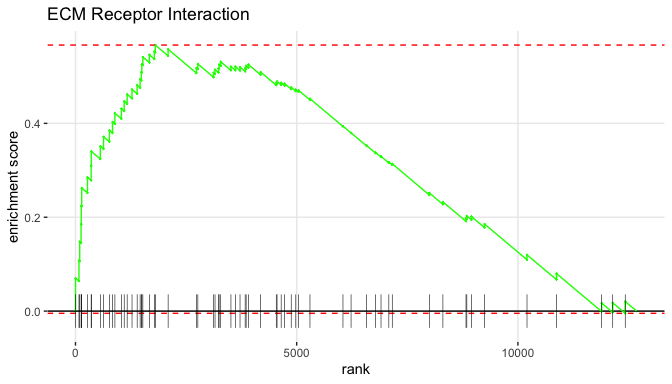
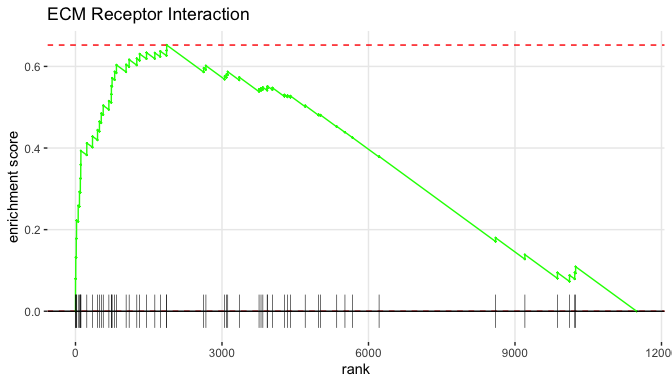
update Liver vignette

diff --git a/vignettes/Liver.md b/vignettes/Liver.md
@@ -25,23 +25,23 @@ extdata <- system.file("extdata", package="hciR")
 samples <- read_tsv(paste(extdata, "liver_samples.tsv", sep="/"))
 samples
 #  # A tibble: 16 x 4
-#     id       name      trt      diet
+#     id       name      trt      diet 
 #     <chr>    <chr>     <chr>    <chr>
-#   1 15089X1  194-Liver Control  NCD
-#   2 15089X2  198-Liver Control  NCD
-#   3 15089X3  209-Liver Control  NCD
-#   4 15089X4  220-Liver Control  NCD
-#   5 15089X5  179-Liver Degs1_KO NCD
-#   6 15089X6  185-Liver Degs1_KO NCD
-#   7 15089X7  186-Liver Degs1_KO NCD
-#   8 15089X8  187-Liver Degs1_KO NCD
-#   9 15089X9  61-Liver  Control  HFD
-#  10 15089X10 70-Liver  Control  HFD
-#  11 15089X11 71-Liver  Control  HFD
-#  12 15089X12 76-Liver  Control  HFD
-#  13 15089X13 82-Liver  Degs1_KO HFD
-#  14 15089X14 89-Liver  Degs1_KO HFD
-#  15 15089X15 90-Liver  Degs1_KO HFD
+#   1 15089X1  194-Liver Control  NCD  
+#   2 15089X2  198-Liver Control  NCD  
+#   3 15089X3  209-Liver Control  NCD  
+#   4 15089X4  220-Liver Control  NCD  
+#   5 15089X5  179-Liver Degs1_KO NCD  
+#   6 15089X6  185-Liver Degs1_KO NCD  
+#   7 15089X7  186-Liver Degs1_KO NCD  
+#   8 15089X8  187-Liver Degs1_KO NCD  
+#   9 15089X9  61-Liver  Control  HFD  
+#  10 15089X10 70-Liver  Control  HFD  
+#  11 15089X11 71-Liver  Control  HFD  
+#  12 15089X12 76-Liver  Control  HFD  
+#  13 15089X13 82-Liver  Degs1_KO HFD  
+#  14 15089X14 89-Liver  Degs1_KO HFD  
+#  15 15089X15 90-Liver  Degs1_KO HFD  
 #  16 15089X16 92-Liver  Degs1_KO HFD
 ```
 
@@ -117,7 +117,7 @@ Following the DESeq2 vignette on
 there are a few ways to model the data.
 
 1.  Combine trt and diet into a single column and select the pairwise
-    comparisons of interest, for example Degs1-KO\_NCD vs Control\_NCD.
+    comparisons of interest, for example Degs1 KO\_NCD vs Control\_NCD.
 2.  Test interactions using \~ trt \* diet in the design formula
 3.  Analyze a subset of samples like those from NCD. See the DEseq2
     [FAQ](http://bioconductor.org/packages/devel/bioc/vignettes/DESeq2/inst/doc/DESeq2.html#if-i-have-multiple-groups-should-i-run-all-together-or-split-into-pairs-of-groups)
@@ -155,7 +155,7 @@ top 500 variable genes.
 
 ``` r
 # plot_pca(rld1, "trt_diet", tooltip=c("id", "name", "diet") , width=700)
-plot_pca(rld1, "trt_diet", ggplot=TRUE, label="name")
+plot_pca(rld1, "trt_diet", ggplot=TRUE, label="id")
 ```
 
 ![](Liver_files/figure-gfm/pcaplot-1.png)<!-- -->
@@ -191,39 +191,59 @@ Use the `subset` option to skip the 3rd and 4th contrasts and compare
 the remaining rows using a 5% false discovery rate (FDR).
 
 ``` r
-res <- results_all(dds1, mouse92, subset=c(1,2,5,6) )
+res <- results_all(dds1, mouse92, subset=c(2,5,6,1))
 #  Using adjusted p-value < 0.05
 #  Adding shrunken fold changes to log2FoldChange
-#  1. KO_HFD vs. KO_NCD:           1150 up and 1115 down regulated
-#  2. KO_HFD vs. Control_HFD:      267 up and 415 down regulated
-#  3. KO_NCD vs. Control_NCD:      35 up and 17 down regulated
-#  4. Control_HFD vs. Control_NCD: 494 up and 278 down regulated
+#  1. KO_HFD vs. Control_HFD:      267 up and 415 down regulated
+#  2. KO_NCD vs. Control_NCD:      35 up and 17 down regulated
+#  3. Control_HFD vs. Control_NCD: 494 up and 278 down regulated
+#  4. KO_HFD vs. KO_NCD:           1150 up and 1115 down regulated
 ```
 
-Plot fold changes and p-values from KO\_HFD vs. KO\_NCD in the first
+Plot fold changes and p-values from high fat KO vs. Control in the first
 contrast in a volcano plot.
 
 ``` r
-plot_volcano(res[[1]], pvalue=10)
+plot_volcano(res[[1]], pvalue=3)
 ```
 
 ![](Liver_files/figure-gfm/volcano-1.png)<!-- -->
 
 <br>
 
-Cluster the rlog values from all 2859 significant genes and scale by
+Plot the mean normalized count and fold change in an MA-plot.
+
+``` r
+plot_ma(res[[1]])
+```
+
+![](Liver_files/figure-gfm/plot_ma1-1.png)<!-- -->
+
+<br>
+
+Cluster the rlog values from all 682 significant genes and scale by
 rows, so values represent the number of standard deviations from the
 mean rlog value.
 
 ``` r
-x <- top_counts(res[[1]], rld1, top=3000)
+x <- top_counts(res[[1]], rld1, top=1000)
 nrow(x)
-#  [1] 2265
+#  [1] 682
 plot_genes(x, c("trt", "diet"), scale ="row", annotation_names_col=FALSE,
  show_rownames=FALSE)
 ```
 
 ![](Liver_files/figure-gfm/gene_heatmap2-1.png)<!-- -->
+
+Optionally, drop the normal chow samples.
+
+``` r
+x <- filter_top_counts(x, diet == "HFD")
+plot_genes(x, "trt", scale ="row", annotation_names_col=FALSE,
+ show_rownames=FALSE)
+```
+
+![](Liver_files/figure-gfm/gene_heatmap2b-1.png)<!-- -->
 
 Find genes in the PPAR Signaling Pathway using the MSigDB pathways in
 [hciRdata](https://github.com/HuntsmanCancerInstitute/hciRdata). Note
@@ -235,27 +255,28 @@ dplyr::select(p1, 1:7,12)
 #  # A tibble: 70 x 8
 #     id        gene_name biotype   chromosome description                         human_homolog baseMean    padj
 #     <chr>     <chr>     <chr>     <chr>      <chr>                               <chr>            <dbl>   <dbl>
-#   1 ENSMUSG0… Pparg     protein_… 6          peroxisome proliferator activated … PPARG           219.   0.121
-#   2 ENSMUSG0… Nr1h3     protein_… 2          Mus musculus nuclear receptor subf… NR1H3          1721.   0.864
-#   3 ENSMUSG0… Ppard     protein_… 17         Peroxisome proliferator-activated … PPARD            52.9  0.859
-#   4 ENSMUSG0… Angptl4   protein_… 17         Angiopoietin-related protein 4      ANGPTL4        1921.   0.0366
-#   5 ENSMUSG0… Cd36      protein_… 5          Platelet glycoprotein 4             CD36           1889.   0.00248
-#   6 ENSMUSG0… Apoa2     protein_… 1          Apolipoprotein A-II Proapolipoprot… APOA2         88339.   0.531
-#   7 ENSMUSG0… Cpt1c     protein_… 7          Mus musculus carnitine palmitoyltr… CPT1C             5.15 0.698
-#   8 ENSMUSG0… Ubc       protein_… 5          ubiquitin C                         UBC             871.   0.0382
-#   9 ENSMUSG0… Acaa1b    protein_… 9          acetyl-Coenzyme A acyltransferase … ACAA1         11724.   0.344
-#  10 ENSMUSG0… Lpl       protein_… 8          lipoprotein lipase                  LPL             640.   0.266
+#   1 ENSMUSG0… Pparg     protein_… 6          peroxisome proliferator activated … PPARG           219.    0.565 
+#   2 ENSMUSG0… Nr1h3     protein_… 2          Mus musculus nuclear receptor subf… NR1H3          1721.    0.113 
+#   3 ENSMUSG0… Ppard     protein_… 17         Peroxisome proliferator-activated … PPARD            52.9   0.207 
+#   4 ENSMUSG0… Angptl4   protein_… 17         Angiopoietin-related protein 4      ANGPTL4        1921.    0.959 
+#   5 ENSMUSG0… Cd36      protein_… 5          Platelet glycoprotein 4             CD36           1889.    0.505 
+#   6 ENSMUSG0… Apoa2     protein_… 1          Apolipoprotein A-II Proapolipoprot… APOA2         88339.    0.0723
+#   7 ENSMUSG0… Cpt1c     protein_… 7          Mus musculus carnitine palmitoyltr… CPT1C             5.15 NA     
+#   8 ENSMUSG0… Ubc       protein_… 5          ubiquitin C                         UBC             871.    0.498 
+#   9 ENSMUSG0… Acaa1b    protein_… 9          acetyl-Coenzyme A acyltransferase … ACAA1         11724.    0.914 
+#  10 ENSMUSG0… Lpl       protein_… 8          lipoprotein lipase                  LPL             640.    0.0285
 #  # … with 60 more rows
 ```
 
 Cluster the PPAR genes in a heatmap. There are 70 expressed genes but
-only 24 are significant, so add `filter=FALSE` to plot all genes since
-`top_counts` will filter using an adjusted p-value \< 0.05 by default.
+only 3 are significant - this will plot 37 genes with an FDR \< 50%.
 
 ``` r
-# x <- top_counts( p1, rld1, filter=FALSE)
-x <- top_counts( p1, rld1)
-plot_genes(x, c("trt", "diet"), fontsize_row=8, scale = "row")
+x <- top_counts( filter(p1, padj < 0.5), rld1, filter=FALSE)
+nrow(x)
+#  [1] 37
+x <- filter_top_counts(x, diet == "HFD")
+plot_genes(x, "trt", fontsize_row=8, scale = "row")
 ```
 
 ![](Liver_files/figure-gfm/gene_heatmap3-1.png)<!-- -->
@@ -283,7 +304,7 @@ DESeq2::resultsNames(dds2)
 #  [1] "Intercept"               "trt_Degs1_KO_vs_Control" "diet_NCD_vs_HFD"         "trtDegs1_KO.dietNCD"
 int <- DESeq2::results(dds2, name = "trtDegs1_KO.dietNCD", alpha = 0.05)
 DESeq2::summary(int)
-#
+#  
 #  out of 19771 with nonzero total read count
 #  adjusted p-value < 0.05
 #  LFC > 0 (up)       : 63, 0.32%
@@ -321,7 +342,7 @@ session.
 ``` r
 res_all <- c(res, list(Interactions=int))
 write_deseq(res_all, dds1, rld1, mouse92)
-save(res, int, dds1, rld1, file="dds.rda")
+save(res, int, dds1, rld1, dds2, rld2, file="dds.rda")
 ```
 
 ## Pathway analysis
@@ -355,10 +376,10 @@ and run `fgsea` using a 10% FDR.
 ``` r
 set.seed(77)
 k1 <- fgsea_all(res, msig_pathways$KEGG)
-#  1. KO_HFD vs. KO_NCD:            63 enriched sets (37 positive, 26 negative)
-#  2. KO_HFD vs. Control_HFD:       113 enriched sets (69 positive, 44 negative)
-#  3. KO_NCD vs. Control_NCD:       25 enriched sets (0 positive, 25 negative)
-#  4. Control_HFD vs. Control_NCD:  32 enriched sets (5 positive, 27 negative)
+#  1. KO_HFD vs. Control_HFD:       112 enriched sets (68 positive, 44 negative)
+#  2. KO_NCD vs. Control_NCD:       25 enriched sets (0 positive, 25 negative)
+#  3. Control_HFD vs. Control_NCD:  29 enriched sets (5 positive, 24 negative)
+#  4. KO_HFD vs. KO_NCD:            64 enriched sets (38 positive, 26 negative)
 ```
 
 Print the top pathways from KO\_HFD vs. KO\_NCD and check the GSEA [user
@@ -368,16 +389,16 @@ for details about the statistics.
 ``` r
 group_by(k1[[1]][, -8], enriched) %>% top_n(4, abs(NES)) %>% ungroup()
 #  # A tibble: 8 x 8
-#    pathway                                          pval    padj     ES   NES nMoreExtreme  size enriched
-#    <chr>                                           <dbl>   <dbl>  <dbl> <dbl>        <dbl> <int> <chr>
-#  1 Ribosome                                     0.000387 0.00383 -0.834 -3.74            0    83 negative
-#  2 Oxidative Phosphorylation                    0.000432 0.00383 -0.515 -2.39            0   103 negative
-#  3 Steroid Biosynthesis                         0.000258 0.00320 -0.798 -2.35            0    15 negative
-#  4 Parkinsons Disease                           0.000431 0.00383 -0.484 -2.24            0    99 negative
-#  5 Chemokine Signaling Pathway                  0.000124 0.00233  0.532  2.23            0   142 positive
-#  6 Graft Versus Host Disease                    0.000158 0.00233  0.744  2.16            0    20 positive
-#  7 Allograft Rejection                          0.000162 0.00233  0.775  2.16            0    17 positive
-#  8 Intestinal Immune Network for IGA Production 0.000152 0.00233  0.670  2.14            0    30 positive
+#    pathway                                  pval    padj     ES   NES nMoreExtreme  size enriched
+#    <chr>                                   <dbl>   <dbl>  <dbl> <dbl>        <dbl> <int> <chr>   
+#  1 Oxidative Phosphorylation            0.000260 0.00118 -0.777 -3.65            0   102 negative
+#  2 Ribosome                             0.000254 0.00118 -0.802 -3.62            0    83 negative
+#  3 Parkinsons Disease                   0.000259 0.00118 -0.734 -3.43            0    99 negative
+#  4 Alzheimers Disease                   0.000272 0.00120 -0.637 -3.13            0   133 negative
+#  5 ECM Receptor Interaction             0.000171 0.00117  0.652  2.58            0    58 positive
+#  6 Cell Adhesion Molecules Cams         0.000168 0.00117  0.609  2.53            0    74 positive
+#  7 Leishmania Infection                 0.000171 0.00117  0.628  2.43            0    52 positive
+#  8 Toll Like Receptor Signaling Pathway 0.000169 0.00117  0.565  2.33            0    71 positive
 ```
 
 Get the fold change vector and create an enrichment plot for Ribosome.
@@ -386,8 +407,8 @@ Get the fold change vector and create an enrichment plot for Ribosome.
 library(fgsea)
 fc <- write_gsea_rnk(res, write=FALSE)
 head(fc[[1]])
-#    COL1A1    GDF15     ORM2     SAA1   PHLDA3   TTC39A
-#  1.927821 1.860799 1.789339 1.744125 1.702428 1.687438
+#    COL1A1   PHLDA3    GPNMB     GBP6    GDF15   COL1A2 
+#  2.024805 1.840050 1.437978 1.422271 1.347245 1.346401
 plotEnrichment(msig_pathways$KEGG[["Ribosome"]],  fc[[1]]) +
 ggplot2::labs(title="Ribosome")
 ```
@@ -429,10 +450,10 @@ motifs, cancer, immunologic and oncogenic sets.
 lapply(msig_hallmark[1:3], head, 7)
 #  $`Tnfa Signaling Via Nfkb`
 #  [1] "ABCA1"   "ACKR3"   "AREG"    "ATF3"    "ATP2B1"  "B4GALT1" "B4GALT5"
-#
+#  
 #  $Hypoxia
-#  [1] "ACKR3"   "ADM"     "ADORA2B" "AK4"     "AKAP12"  "ALDOA"   "ALDOB"
-#
+#  [1] "ACKR3"   "ADM"     "ADORA2B" "AK4"     "AKAP12"  "ALDOA"   "ALDOB"  
+#  
 #  $`Cholesterol Homeostasis`
 #  [1] "ABCA2" "ACAT2" "ACSS2" "ACTG1" "ADH4"  "ALCAM" "ALDOC"
 ```
@@ -442,7 +463,7 @@ select a list element like `msig_pathways$REACTOME` to return the sets.
 
 ``` r
 names(msig_pathways)
-#   [1] "BIOCARTA" "KEGG"     "NABA"     "PID"      "REACTOME" "SA"       "SIG"      "ST"       "WNT"
+#   [1] "BIOCARTA" "KEGG"     "NABA"     "PID"      "REACTOME" "SA"       "SIG"      "ST"       "WNT"     
 #  [10] "WP"
 names(msig_go)
 #  [1] "BP" "MF" "CC"
